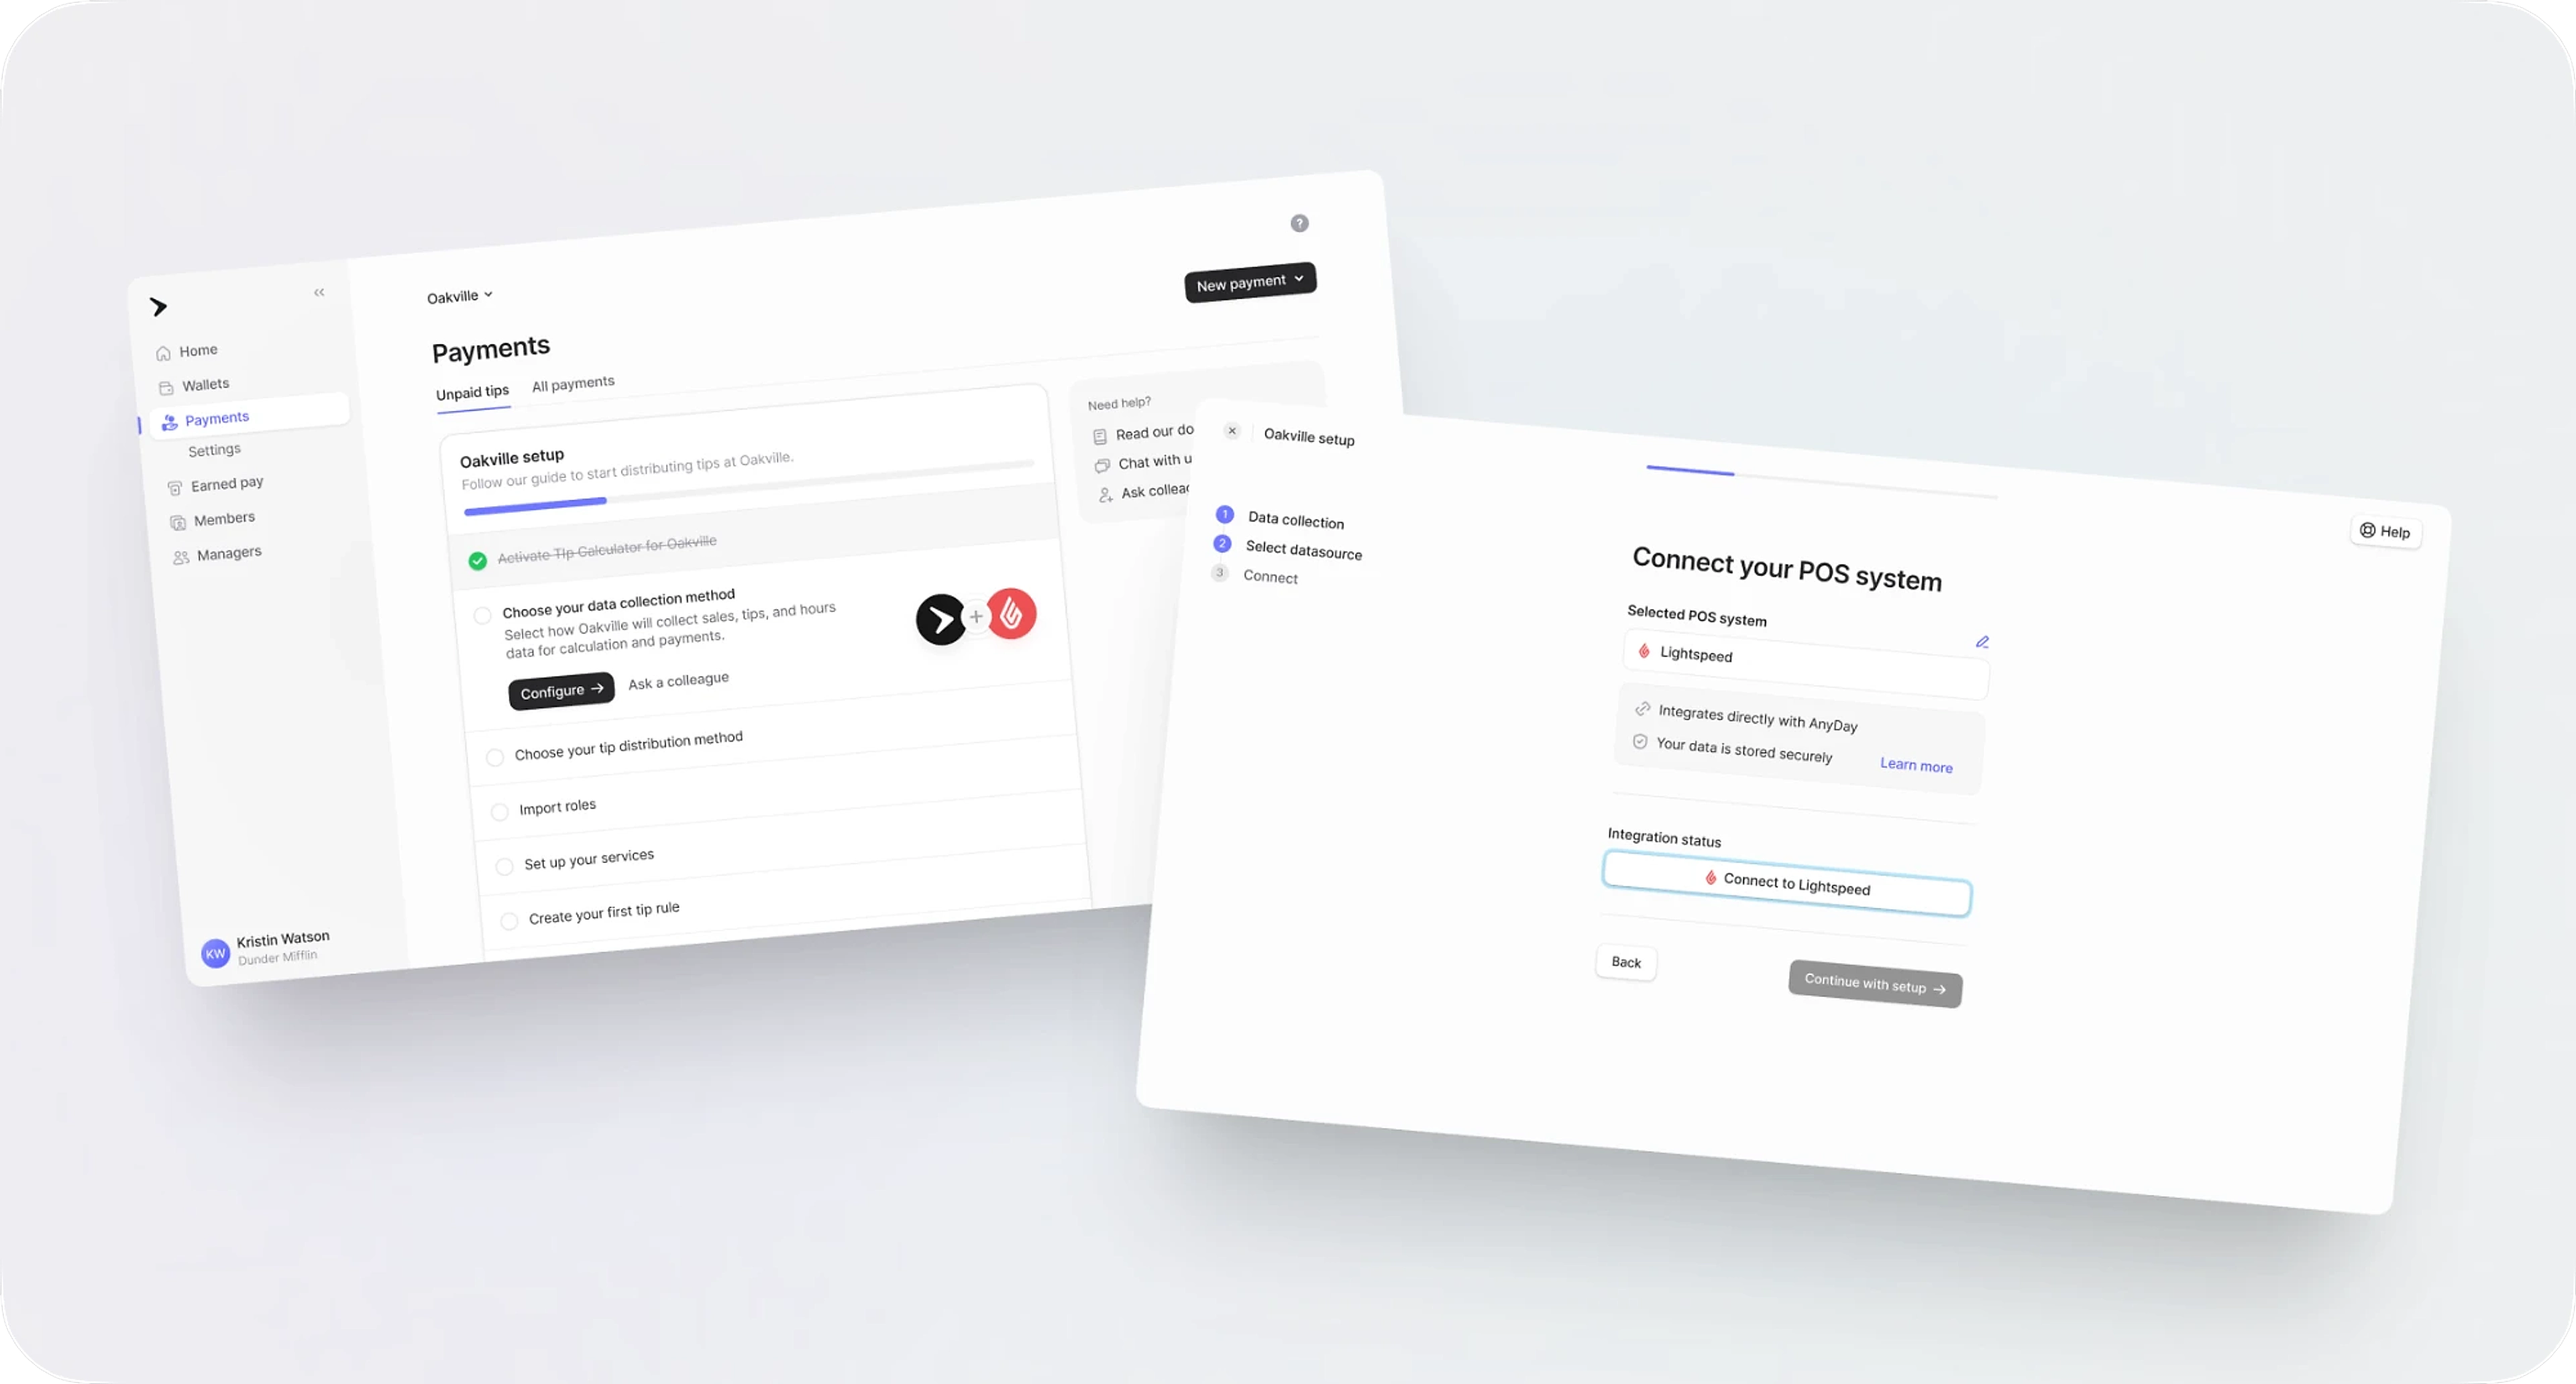
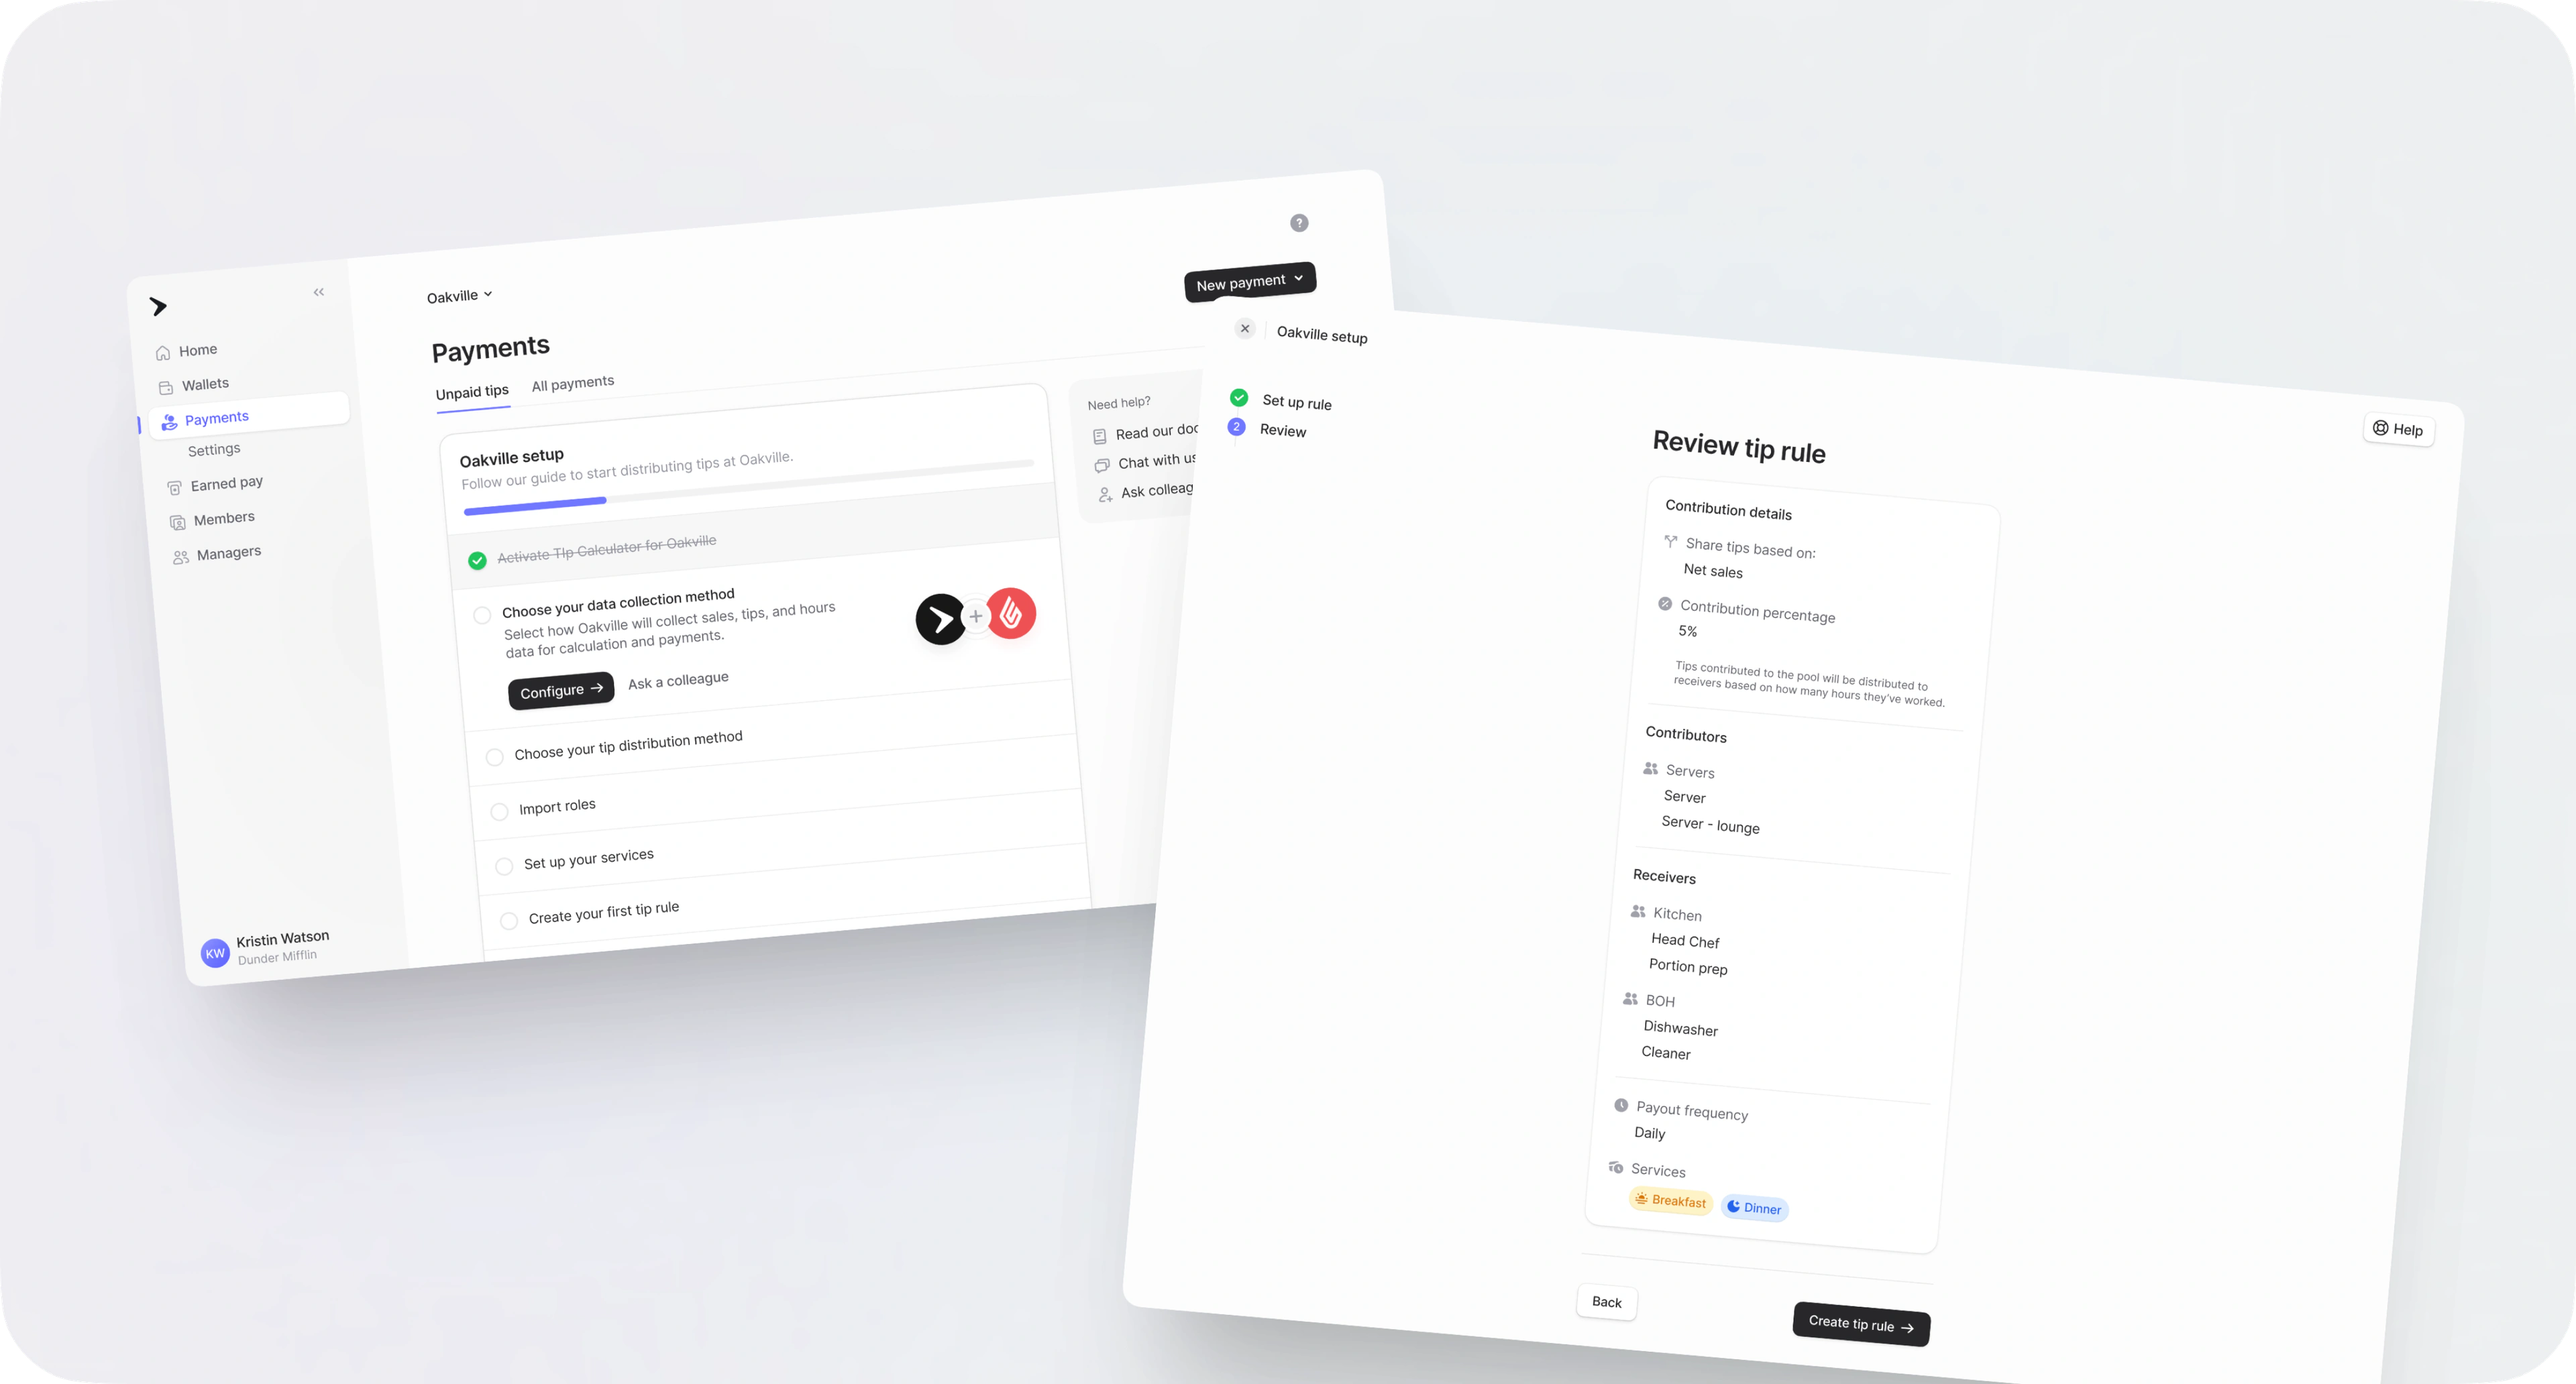
Copy updates

diff --git a/src/components/work/anyday/case-study.tsx b/src/components/work/anyday/case-study.tsx
@@ -307,8 +307,8 @@ export function AnyDayCaseStudy() {
               </AnyDayStoryCard>
               <AnyDayStoryCard
                 id="discovery-findings"
-                title="We mapped payouts with restaurant partners."
-                description="Tipping rules varied by restaurant and even by location. Automation only worked if any of them could easily set up their own rules exactly how they had it in their spreadsheets."
+                title="We mapped payout journeys with restaurant partners."
+                description="Tipping rules varied by restaurant and even by location. Automation only worked if any location could easily set up their own rules exactly how they had it in their spreadsheets."
               >
                 <AnyDayFigureRow width="full">
                   <AnyDayFigure
@@ -327,7 +327,7 @@ export function AnyDayCaseStudy() {
               <AnyDayStoryCard
                 id="foundation"
                 title="I designed the new app to keep members in our ecosystem after payday."
-                description="Savings, rewards, and budgeting gave them a reason to make AnyDay their primary account, in a simpler, cleaner UI."
+                description="Savings, rewards, and budgeting gave members reasons to make AnyDay their primary account, in a simpler, cleaner UI."
               >
                 <AnyDayFigureRow width="wide">
                   <AnyDayFigure
@@ -344,8 +344,8 @@ export function AnyDayCaseStudy() {
               </AnyDayStoryCard>
               <AnyDayStoryCard
                 id="portal-system"
-                title="I designed a simpler, faster portal focused on each manager’s role."
-                description="Precise filtering, pinned locations, and proactive funding alerts put what mattered up front, and it ran 6x faster on the aging hardware restaurants relied on."
+                title="I designed the portal around how managers work."
+                description="Precise filtering and pinned locations cut the digging, and proactive funding alerts cut the surprises. It all ran 6x faster on slower networks and devices."
               >
                 <AnyDayFigureRow width="full">
                   <figure className="anyday-figure">
@@ -362,16 +362,16 @@ export function AnyDayCaseStudy() {
               </AnyDayStoryCard>
               <AnyDayStoryCard
                 id="portal-onboarding"
-                title="Restaurants could now onboard themselves."
-                description="I designed a guided checklist that took managers from connecting their POS to setting their tip rules, with each step building on the last, so they didn’t need to call support."
+                title="I designed a self-guided onboarding flow."
+                description="A step-by-step checklist took managers from connecting their POS to setting their tip rules, without a call to support."
               >
                 <AnyDayFigureRow width="wide">
                   <AnyDayFigure
-                    alt="Two angled portal screens: the Oakville setup checklist on the Payments page, running from data collection to a first tip rule, and the “Connect your POS system” step with Lightspeed selected."
+                    alt="Two angled portal screens: the Oakville setup checklist on the Payments page, running from data collection to a first tip rule, and the “Review tip rule” step summarizing contributors, receivers, payout frequency, and services."
                     aspect={PORTAL}
                     ground="#f2f2f2"
                     height={2064}
-                    label="Portal onboarding — setup checklist and POS connection"
+                    label="Portal onboarding — setup checklist and tip rule review"
                     src="/media/anyday/portal-onboarding.webp"
                     unoptimized
                     width={3840}
@@ -434,24 +434,6 @@ export function AnyDayCaseStudy() {
                 </AnyDayFigureRow>
               </AnyDayStoryCard>
               */}
-              <AnyDayStoryCard
-                id="billing"
-                title="I designed billing for AnyDay’s move to SaaS."
-                description="Finance teams could now download invoices and update payment details in the portal, taking pressure off our support team."
-              >
-                <AnyDayFigureRow width="wide">
-                  <AnyDayFigure
-                    alt="Portal billing settings: Payments and Tip calculator subscriptions with next billing dates, a default Mastercard payment method, and an invoices table with export."
-                    aspect={PORTAL}
-                    ground="#f2f2f2"
-                    height={2065}
-                    label="Portal billing settings"
-                    src="/media/anyday/portal-billing.webp"
-                    unoptimized
-                    width={3840}
-                  />
-                </AnyDayFigureRow>
-              </AnyDayStoryCard>
               {/* Hidden for now.
               <AnyDayStoryCard
                 id="saving"

diff --git a/src/app/globals.css b/src/app/globals.css
@@ -1136,16 +1136,6 @@ html:has(.case-study-page) {
   border: 0;
 }
 
-/* The taller mobile frame crops these wide portal screens, so each keeps the
-   side that carries its content instead of the centre. */
-#portal-onboarding .anyday-figure__frame img {
-  object-position: left;
-}
-
-#billing .anyday-figure__frame img {
-  object-position: right;
-}
-
 /* The card's 2px white stroke just inside its hairline, over the artwork, so
    the lead frame is drawn the way its card is — as a border, for the reason
    given at `.tileLink::after`. */
